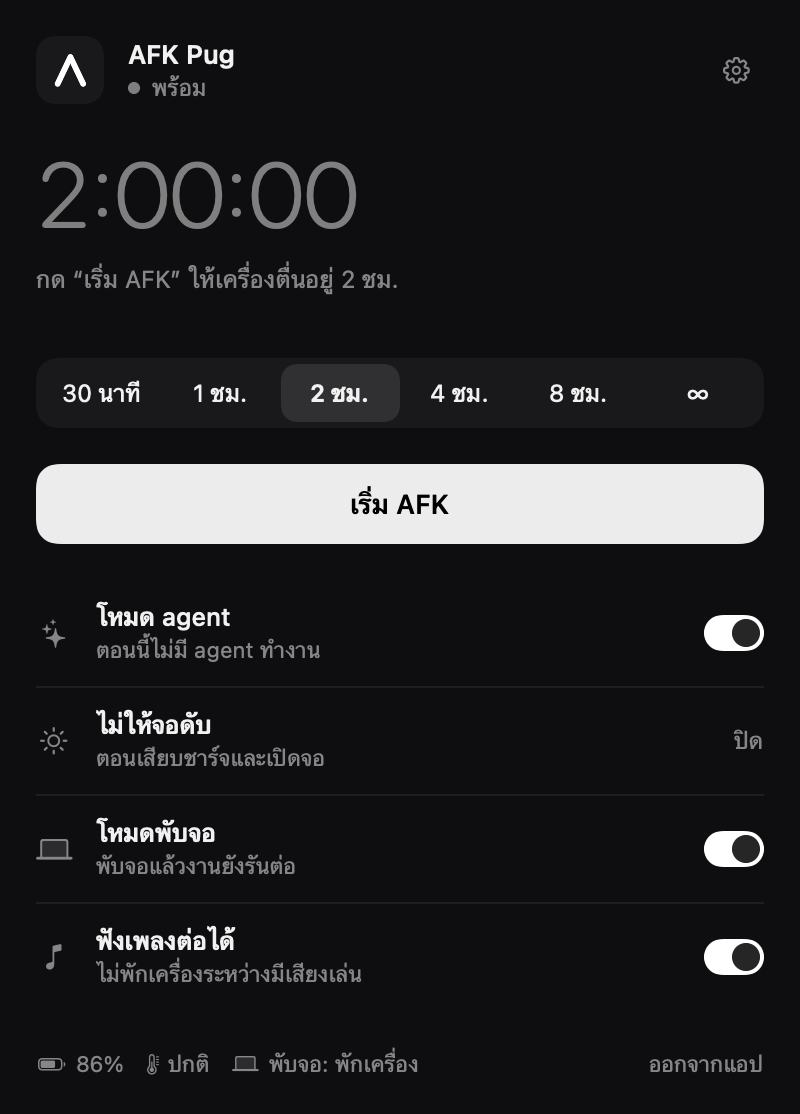
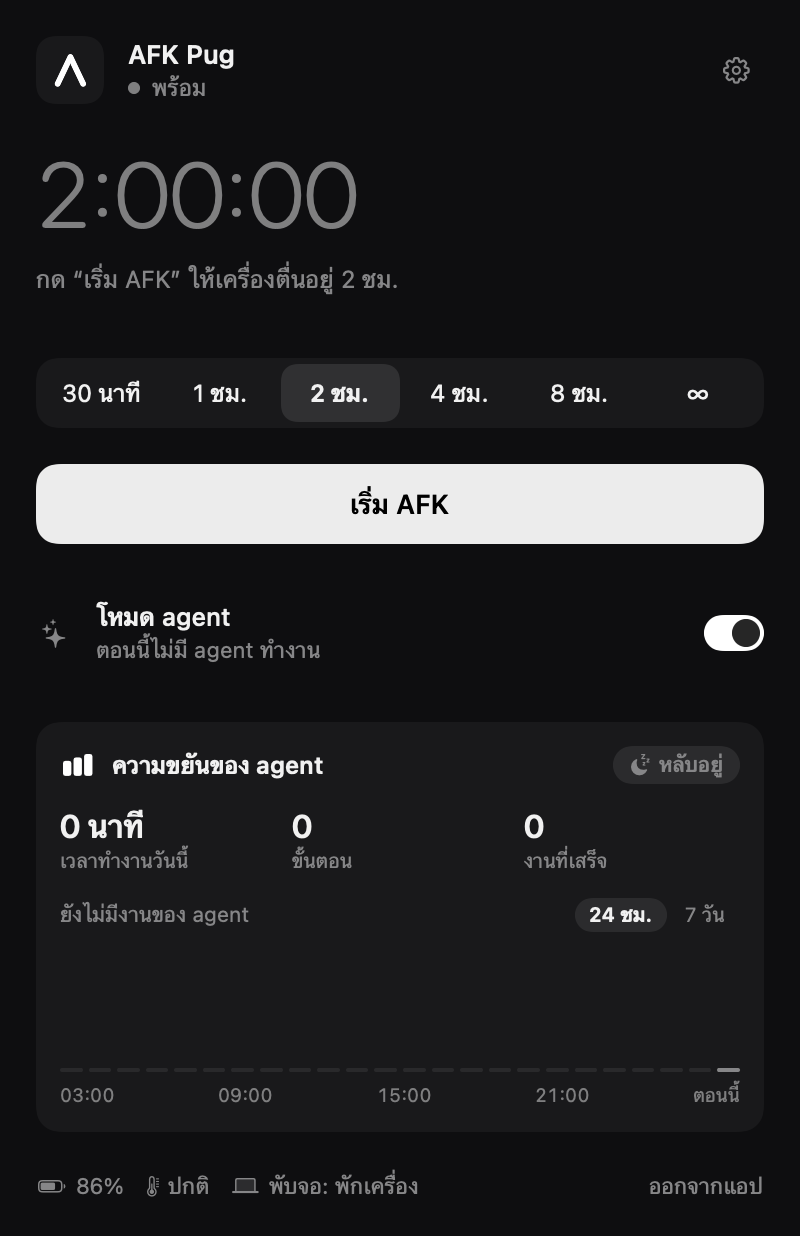
docs: show the hustle chart and the Keep awake section
Re-renders the screenshots and points the lid, screen and music settings to Settings → Keep awake.

diff --git a/README.th.md b/README.th.md
@@ -54,6 +54,7 @@
 - **ทำงานได้แม้พับจอ:** ไม่ต้องใช้จอนอกหรืออุปกรณ์เสริม
 - **บอกได้ว่า agent ทำอะไรอยู่:** โปรเจกต์ ข้อความที่สั่ง ขั้นตอนปัจจุบัน และงานไหนเสร็จแล้ว
 - **ไม่ให้จอดับได้:** ตอน agent ทำงาน หรือต่ออีก 30 นาทีถึง 1 ชั่วโมง
+- **ดูได้ว่า agent ขยันแค่ไหน:** เวลาทำงาน จำนวนขั้นตอน และงานที่เสร็จ เป็นกราฟ 24 ชั่วโมงหรือ 7 วันล่าสุด
 - **ตื่นตาม agent:** Claude Code, Codex, Gemini CLI, Cursor และอื่นๆ
 - **รอโควตา Claude รีเซ็ต:** เครื่องตื่นรอจนถึงเวลารีเซ็ต เพื่อให้งานทำต่อได้
 - **ประหยัดแบต:** ปิดหน้าจอ ปิดเสียง เปิดโหมดพลังงานต่ำ แล้วคืนค่าเดิมเมื่อเปิดจอ
@@ -62,11 +63,17 @@
 - **ปรับหน้าตาได้:** ขาวดำเป็นค่าเริ่มต้น หรือเลือกพื้นหลังและสีหลักเองได้
 - **ข้อมูลอยู่ในเครื่อง:** ไม่ต้องมีบัญชี และไม่เก็บข้อมูลการใช้งาน
 
+### มีอะไรใหม่ใน 0.7
+
+- **ความขยันของ agent:** กราฟบนหน้าหลัก บอกว่า agent ทำงานไปนานแค่ไหน กี่ขั้นตอน เสร็จกี่งาน ดูได้ทั้ง 24 ชั่วโมงและ 7 วันล่าสุด พร้อมป้ายระดับตั้งแต่ **หลับอยู่** ไปจนถึง **ไฟลุก**
+- **หน้าหลักโล่งขึ้น:** **โหมดพับจอ**, **ไม่ให้จอดับ** และ **ฟังเพลงต่อได้** ย้ายไปอยู่ที่ **ตั้งค่า → ให้เครื่องตื่น**
+- **เปิดมาเจอหน้าหลักเสมอ:** แม้ปิดแผงไว้ตอนอยู่หน้าตั้งค่า
+
 ### มีอะไรใหม่ใน 0.6
 
 - **ดูได้ว่า agent ทำอะไรอยู่:** โปรเจกต์ ข้อความที่สั่ง ขั้นตอนปัจจุบัน และรายการ **เพิ่งเสร็จ**
 - **กดที่ agent เพื่อไปหามันได้เลย:** เด้งไปแท็บ terminal หรือหน้าต่างโปรเจกต์ของงานนั้น
-- **ไม่ให้จอดับ:** ตั้งได้ที่หน้าแรก ตอน agent ทำงาน หรือต่ออีก 30 นาทีถึง 1 ชั่วโมง
+- **ไม่ให้จอดับ:** ตอน agent ทำงาน หรือต่ออีก 30 นาทีถึง 1 ชั่วโมง
 - **หน้าแนะนำแบบทีละขั้น:** เลือกภาษา แล้วสอนใช้งานทีละส่วน
 - **อัปเดตในแอป:** เช็กวันละครั้ง กดปุ่มเดียวติดตั้งได้ และปิดการเช็กได้
 - **สถานะบน menu bar:** แสดงเวลาที่เหลือหรือจำนวน agent ข้างตัว A ได้ถ้าต้องการ
@@ -269,12 +276,12 @@ AFK Pug ไม่มีไอคอนใน Dock แต่อยู่บน me
 
 <tr><td colspan="2"><h3>ยังตั้งค่าไม่ครบ</h3></td></tr>
 <tr>
-<td valign="top"><img src="docs/screens/th/setup.png" width="230" alt="หน้าหลักที่มีปุ่มเชื่อมต่อและอนุญาต"></td>
+<td valign="top"><img src="docs/screens/th/setup.png" width="230" alt="หน้าหลักที่มีปุ่มเชื่อมต่อ"></td>
 <td valign="top">
 
 **หมายความว่า:** คุณข้ามบางขั้นในหน้าต่างแนะนำ ถ้ายังไม่ให้สิทธิ์ เครื่องจะพักเมื่อพับจอ ถ้ายังไม่เชื่อมต่อ แอปจะหา agent ได้จาก process เท่านั้น
 
-**ต้องทำ:** กด **อนุญาต** สำหรับโหมดพับจอ และ **เชื่อมต่อ** สำหรับ agent
+**ต้องทำ:** กด **เชื่อมต่อ** สำหรับ agent ส่วนโหมดพับจอ เข้า **ตั้งค่า → ให้เครื่องตื่น** แล้วกด **อนุญาต** ที่แถว **โหมดพับจอ**
 
 </td>
 </tr>
@@ -413,7 +420,7 @@ AFK Pug จะไม่เปิดแอปที่ยังไม่ได้
 
 ### ไม่ให้จอดับ
 
-ปกติจอจะดับเองตามเวลาของเครื่องระหว่างที่ agent ทำงาน ถ้าอยากให้จอติดไว้เพื่อดูงาน เลือกได้ที่แถว **ไม่ให้จอดับ** ในหน้าแรก
+ปกติจอจะดับเองตามเวลาของเครื่องระหว่างที่ agent ทำงาน ถ้าอยากให้จอติดไว้เพื่อดูงาน เลือกได้ที่แถว **ไม่ให้จอดับ** ใน **ตั้งค่า → ให้เครื่องตื่น**
 
 | ตัวเลือก | จอจะเปิดอยู่ |
 |---|---|
@@ -500,7 +507,9 @@ open "afkpug://sleep-now"           # เหมือนปุ่มให้พ
 
 | หมวด | การตั้งค่า | ค่าเริ่มต้น |
 |---|---|---|
-| **หน้าแรก** | ไม่ให้จอดับ: ปิด, จน agent เสร็จ, เสร็จแล้วอีก 30 นาที หรือ 1 ชม. | ปิด |
+| **ให้เครื่องตื่น** | โหมดพับจอ: ต้องให้สิทธิ์ครั้งเดียว กด **อนุญาต** | เปิด |
+| | ไม่ให้จอดับ: ปิด, จน agent เสร็จ, เสร็จแล้วอีก 30 นาที หรือ 1 ชม. | ปิด |
+| | ฟังเพลงต่อได้ | เปิด |
 | **เมื่อพับจอ** | ปิดหน้าจอ · ปิดเสียง · โหมดพลังงานต่ำตอนใช้แบต · ล็อกหน้าจอ | เปิด |
 | | หยุดแอปแชทชั่วคราว | ปิด |
 | | เฉพาะตอนเสียบสายชาร์จ: ถ้าใช้แบต พับจอแล้วเครื่องจะพักตามปกติ | ปิด |
@@ -566,7 +575,7 @@ MacBook ที่พับจอระบายความร้อนได้
 <summary><b>พับจอแล้วเครื่องยังพัก</b></summary>
 <br>
 
-เปิดแอปแล้วดู **โหมดพับจอ** ถ้าขึ้นว่าต้องให้สิทธิ์ ให้กด **อนุญาต** จากนั้นเช็กว่ามีอะไรทำให้เครื่องตื่นอยู่ไหม เช่น agent, ตัวนับเวลา หรือเพลง ถ้าไม่มีงาน เครื่องควรพักอยู่แล้ว ตัวเลือก **เฉพาะตอนเสียบสายชาร์จ** ก็ทำให้เครื่องพักตอนใช้แบตด้วย
+เปิด **ตั้งค่า → ให้เครื่องตื่น** แล้วดู **โหมดพับจอ** ถ้าขึ้นว่าต้องให้สิทธิ์ ให้กด **อนุญาต** จากนั้นเช็กว่ามีอะไรทำให้เครื่องตื่นอยู่ไหม เช่น agent, ตัวนับเวลา หรือเพลง ถ้าไม่มีงาน เครื่องควรพักอยู่แล้ว ตัวเลือก **เฉพาะตอนเสียบสายชาร์จ** ก็ทำให้เครื่องพักตอนใช้แบตด้วย
 
 </details>
 

diff --git a/README.md b/README.md
@@ -57,14 +57,21 @@ You ask Claude Code to refactor a module, close your MacBook and walk to lunch. 
 - **Keeps music playing:** a track that's already on stays on
 - **Has hard limits:** stops at low battery or critical heat, and restores normal sleep even if the app crashes
 - **Can keep the screen on:** while agents work, or for 30 minutes or an hour after
+- **Shows how hard they worked:** agent time, steps and finished jobs, on a chart of the last 24 hours or 7 days
 - **Looks how you like:** black and white by default, or any background and accent color
 - **Stays on your Mac:** no account and no telemetry
+
+### What's new in 0.7
+
+- **Agent hustle:** a chart on the home screen of how long your agents worked, how many steps they took and how many jobs they finished, for the last 24 hours or 7 days. A badge goes from **Napping** to **On fire**
+- **A calmer home screen:** **Lid-closed mode**, **Keep the screen on** and **Keep music playing** moved to **Settings → Keep awake**
+- **Opens where you need it:** the panel always opens on your agents, even if you closed it on Settings
 
 ### What's new in 0.6
 
 - **See what each agent is doing:** the project, your request and the current step, plus a **Just finished** list
 - **Click an agent to go to it:** jumps to its terminal tab or project window
-- **Keep the screen on:** on the home screen, while agents work or for 30 minutes or an hour after
+- **Keep the screen on:** while agents work or for 30 minutes or an hour after
 - **A guided welcome:** choose a language, then learn the app one part at a time
 - **Updates inside the app:** a daily check with one-click install, which you can turn off
 - **Status in the menu bar:** optional time left or agent count beside the A
@@ -247,12 +254,12 @@ Click the A in the menu bar. The big line at the top always tells you why the Ma
 
 <tr><td colspan="2"><h3>Finish setup</h3></td></tr>
 <tr>
-<td valign="top"><img src="docs/screens/en/setup.png" width="230" alt="Home screen with Connect and Set up buttons"></td>
+<td valign="top"><img src="docs/screens/en/setup.png" width="230" alt="Home screen with a Connect button"></td>
 <td valign="top">
 
 **What it means:** you skipped a welcome step. Without the permission, the Mac still sleeps when the lid closes. Without a connection, agents are only found through process detection.
 
-**What to do:** press **Set up** for the lid and **Connect** for your agents.
+**What to do:** press **Connect** for your agents. For the lid, open **Settings → Keep awake** and press **Set up** under **Lid-closed mode**.
 
 </td>
 </tr>
@@ -389,7 +396,7 @@ Turn on **Settings → General → Show status in the menu bar** to see the time
 
 ### Keep the screen on
 
-The screen normally sleeps on its own timer while your agents work. To check on them at a glance, choose how long it stays on with **Keep the screen on** on the home screen:
+The screen normally sleeps on its own timer while your agents work. To check on them at a glance, choose how long it stays on with **Keep the screen on** under **Settings → Keep awake**:
 
 | Choice | The screen stays on |
 |---|---|
@@ -472,7 +479,9 @@ Press the gear at the top right of the app.
 
 | Section | Setting | Default |
 |---|---|---|
-| **Home screen** | Keep the screen on: off, while agents work, or 30 minutes or an hour after | off |
+| **Keep awake** | Lid-closed mode: needs a one-time permission, see **Set up** | on |
+| | Keep the screen on: off, while agents work, or 30 minutes or an hour after | off |
+| | Keep music playing | on |
 | **When the lid closes** | Turn the screen off · Mute sound · Low Power Mode on battery · Lock the screen | on |
 | | Pause chat apps | off |
 | | Only when plugged in: on battery, closing the lid sleeps as usual | off |
@@ -532,7 +541,7 @@ On a MacBook with a notch, macOS hides menu bar icons when there isn't room, and
 <summary><b>The Mac still sleeps when I close the lid</b></summary>
 <br>
 
-Open the app and check **Lid-closed mode**. If it says *Needs a one-time permission*, press **Set up**. Then check that something is keeping the Mac awake: an agent, a timer or music. With nothing to do, sleeping is correct. **Only when plugged in** also lets it sleep on battery.
+Open **Settings → Keep awake** and check **Lid-closed mode**. If it says *Needs a one-time permission*, press **Set up**. Then check that something is keeping the Mac awake: an agent, a timer or music. With nothing to do, sleeping is correct. **Only when plugged in** also lets it sleep on battery.
 
 </details>
 
